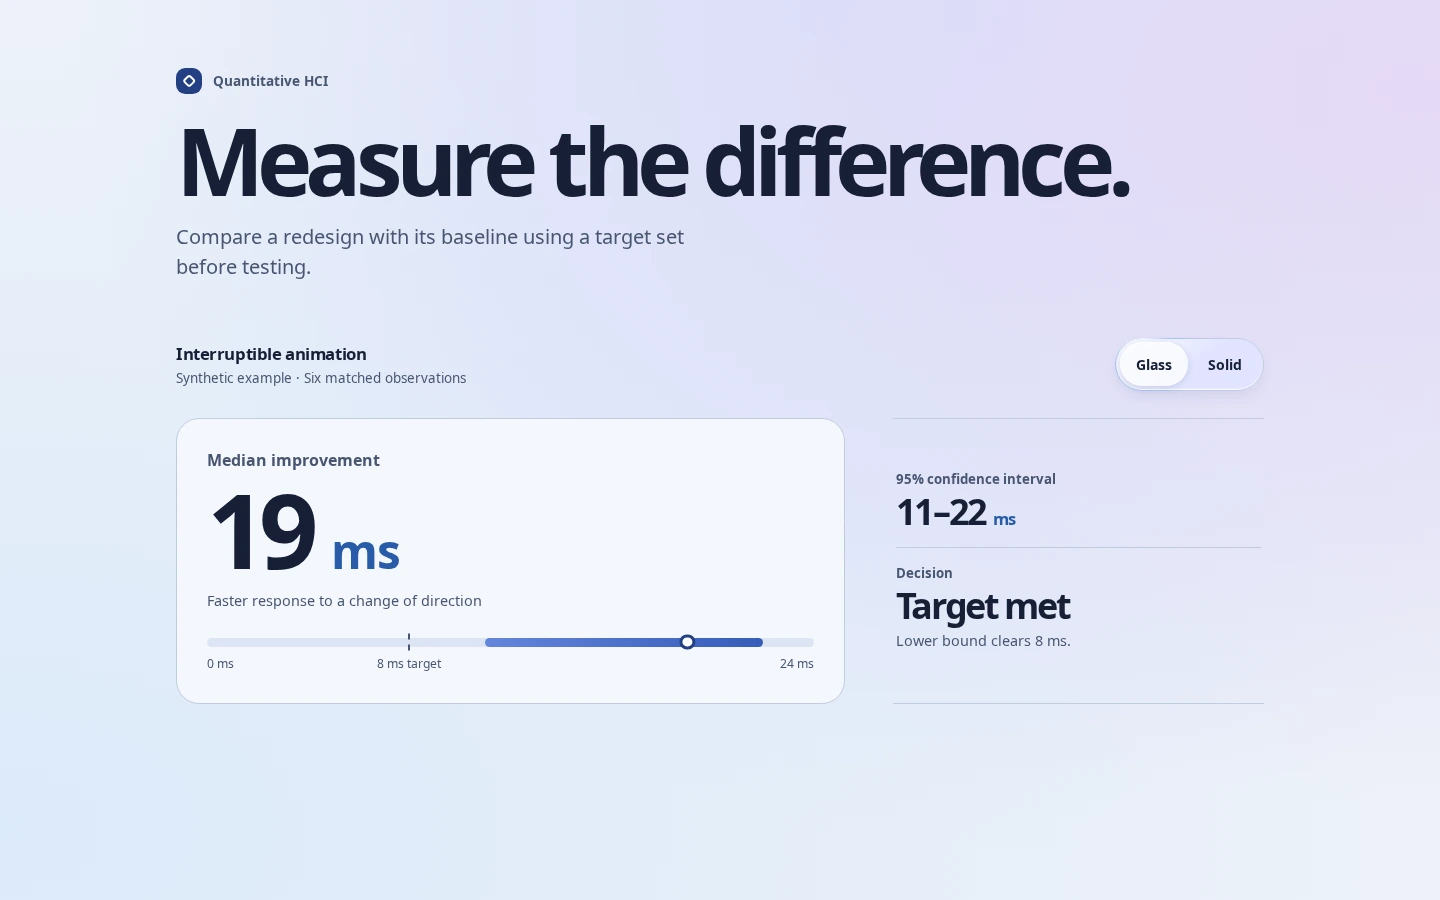
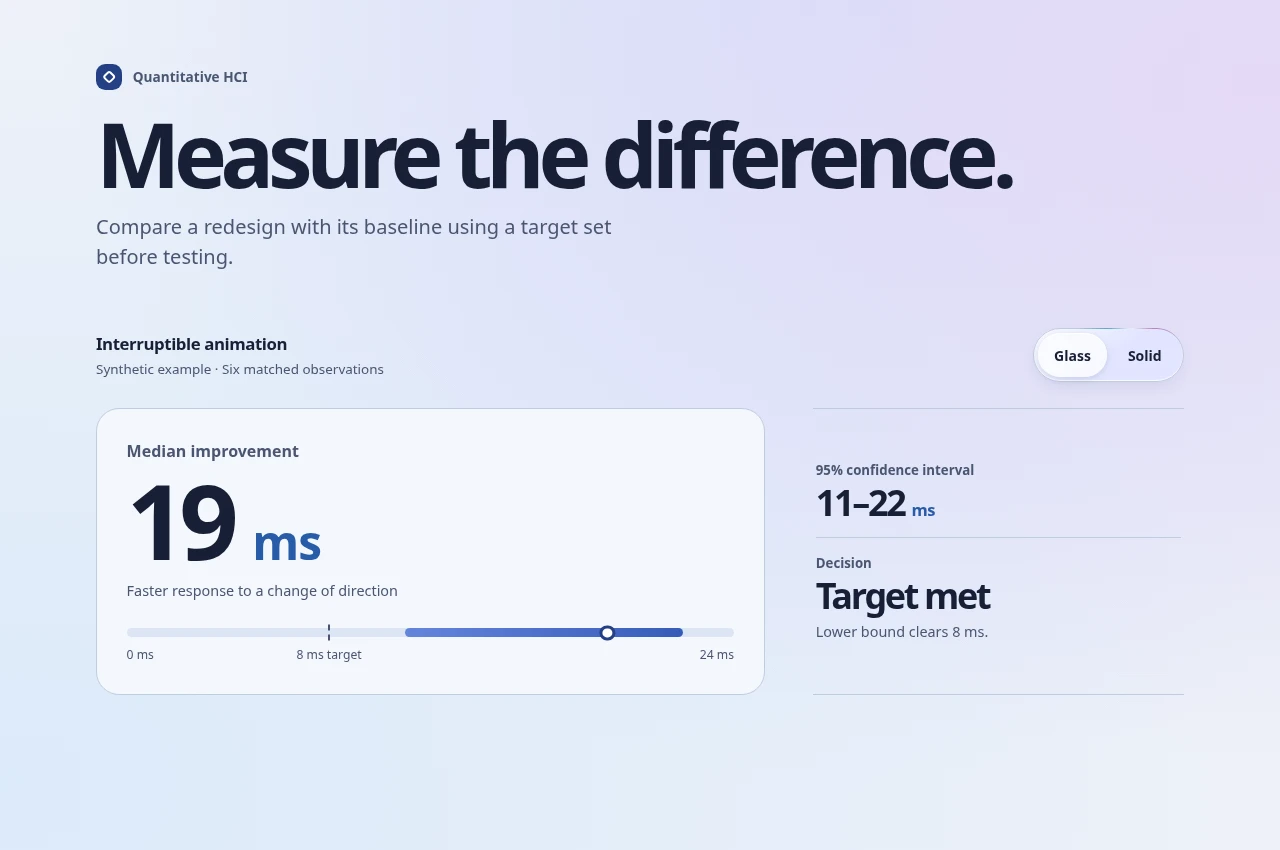
Add an audited chromatic rim to Liquid Glass

diff --git a/docs/hci/examples/spotlight-glass.html b/docs/hci/examples/spotlight-glass.html
@@ -21,6 +21,8 @@
       --chrome-solid: #e5ebf8;
       --chrome-tint: #e1e9ff9e;
       --rim: #ffffffd9;
+      --rim-cyan: #2e96b3c7;
+      --rim-rose: #b957a5bd;
       --selection: #f9fbffe8;
       --focus: #144fa7;
       --shadow: #21365e25;
@@ -168,7 +170,13 @@
         inset: -1px;
         padding: 1px;
         border-radius: inherit;
-        background: radial-gradient(5.5rem circle at var(--spot-x) var(--spot-y), #fff, #a6c3ff 36%, transparent 80%);
+        background:
+          radial-gradient(2rem circle at var(--spot-x) var(--spot-y),
+            #fff, #fff9 24%, transparent 80%),
+          radial-gradient(2.8rem circle at calc(var(--spot-x) - 1.15rem) var(--spot-y),
+            var(--rim-cyan) 8%, transparent 78%),
+          radial-gradient(2.8rem circle at calc(var(--spot-x) + 1.15rem) var(--spot-y),
+            var(--rim-rose) 8%, transparent 78%);
         mask: linear-gradient(#000 0 0) content-box, linear-gradient(#000 0 0);
         mask-composite: exclude;
         pointer-events: none;
@@ -276,6 +284,8 @@
 
     @media (prefers-color-scheme: dark) {
       :root {
+        --rim-cyan: #61e7dfcc;
+        --rim-rose: #f39decdd;
         --canvas: #101828;
         --ink: #eef3ff;
         --muted: #b6c5df;

diff --git a/docs/hci/models/audit-spotlight.py b/docs/hci/models/audit-spotlight.py
@@ -155,6 +155,38 @@ def move_over_toolbar(page, toolbar, dx=18, dy=10):
     page.evaluate(FRAMES)
 
 
+def capture_toolbar(toolbar, image_class):
+    with image_class.open(BytesIO(toolbar.screenshot(scale="css", animations="disabled"))) as image:
+        return image.convert("RGB")
+
+
+def measure_rim(page, toolbar, image_class):
+    page.evaluate(FRAMES)
+    with capture_toolbar(toolbar, image_class) as before:
+        move_over_toolbar(page, toolbar, dx=round(before.width * 0.65), dy=4)
+        with capture_toolbar(toolbar, image_class) as after:
+            # Skip the rounded caps and the rim when comparing the label area.
+            inset = 27
+            interior = (inset, 6, before.width - inset, before.height - 6)
+            with before.crop(interior) as idle, after.crop(interior) as hover:
+                interior_unchanged = idle.tobytes() == hover.tobytes()
+
+            cyan = rose = 0
+            for y in range(4):
+                for x in range(inset, before.width - inset):
+                    previous = before.getpixel((x, y))
+                    red, green, blue = after.getpixel((x, y))
+                    if max(abs(new - old) for new, old in zip((red, green, blue), previous)) < 12:
+                        continue
+                    cyan += min(green, blue) - red >= 16
+                    rose += min(red, blue) - green >= 12
+            return {
+                "changed_cyan_rim_pixels": cyan,
+                "changed_rose_rim_pixels": rose,
+                "interior_pixels_unchanged": interior_unchanged,
+            }
+
+
 def burst_pointer_events(toolbar):
     return toolbar.evaluate(
         """async toolbar => {
@@ -189,10 +221,13 @@ def audit_desktop(page, image_class):
     solid = page.get_by_role("radio", name="Solid")
     default_glass = glass.is_checked()
     base_geometry = layout_geometry(page)
-    contrast = {"glass_idle": sample_contrast(page, image_class)}
-
-    move_over_toolbar(page, toolbar)
+    rim = measure_rim(page, toolbar, image_class)
     pointer_active = pointer_position(toolbar) != ["", ""]
+
+    # Capture the visual comparison before the contrast probe changes the text DOM.
+    page.mouse.move(0, 0)
+    contrast = {"glass_idle": sample_contrast(page, image_class)}
+    move_over_toolbar(page, toolbar)
     contrast["glass_pointer"] = sample_contrast(page, image_class)
     burst = burst_pointer_events(toolbar)
 
@@ -236,6 +271,8 @@ def audit_desktop(page, image_class):
         "checks": {
             "glass_is_default": default_glass,
             "mouse_tracks": pointer_active,
+            "chromatic_rim_is_visible": min(rim["changed_cyan_rim_pixels"], rim["changed_rose_rim_pixels"]) >= 4,
+            "hover_preserves_interior_pixels": rim["interior_pixels_unchanged"],
             "coalesced_pointer_burst": 0 < burst["style_mutations"] <= 2 and burst["latest_pointer_applied"],
             "keyboard_switches_both_directions": keyboard_glass and keyboard_solid and keyboard_returns_to_glass,
             "keyboard_focus_outline_present": focus_ring["width_px"] >= 2 and focus_ring["style"] != "none",
@@ -243,6 +280,7 @@ def audit_desktop(page, image_class):
             "surface_switch_preserves_geometry": base_geometry == solid_geometry,
         },
         "pointer_burst": burst,
+        "rim": rim,
         "focus_outline": focus_ring,
     }
 

diff --git a/docs/hci/examples/README.md b/docs/hci/examples/README.md
@@ -9,7 +9,7 @@ Open [spotlight-glass.html](spotlight-glass.html) locally. The toolbar starts in
 | Background | Continuous colour across the page gives the glass something to pick up. |
 | Content | Give the chart one solid surface and let supporting figures sit on the page with simple dividers. |
 | Controls | A tinted translucent fill, backdrop blur, inset rim and quiet shadow give controls depth. Match the radii of nested elements to keep the edges aligned. |
-| Spotlight | A border-only highlight tracks a mouse. It stays static with touch or reduced motion and disappears in solid and reduced-transparency modes. |
+| Spotlight | A narrow white highlight with cyan and rose fringes tracks the mouse along the rim. It stays static with touch or reduced motion and disappears in solid and reduced-transparency modes. |
 | Fallback | Solid fill preserves legibility without blur support. Native controls, a visible focus ring and explicit labels preserve the same actions in forced colours. |
 
 ## Measure the effect
@@ -36,9 +36,18 @@ Use `--profile desktop_dark` to run one profile or `--executable /path/to/chromi
 | Desktop, light and dark | Minimum sampled text contrast was 5.28:1 in light and 7.12:1 in dark across the normal surface states. Keyboard switching preserved layout and showed a 2 CSS px focus ring. |
 | Dark toolbar over a bright test backdrop | The minimum sampled toolbar-label contrast was 7.23:1. |
 | Touch at 320 CSS px | Both targets were 68 × 44 CSS px. Minimum sampled text contrast was 6.74:1. Both choices worked without horizontal overflow. |
+| Chromatic rim | Both themes showed cyan and rose at the moving edge. Pixels in the sampled label area matched at rest and under the pointer. |
 | 24 pointer events in one frame | Two style updates applied the latest coordinates. |
 | Reduced motion, reduced transparency and forced colours | The spotlight stopped tracking. Blur and glow were disabled for reduced transparency and forced colours. Metric text remained visible. |
 
+The rim audit compares screenshots at rest and at a fixed pointer position. It
+checks for both colours in the top four CSS pixel rows and compares interior
+pixels after excluding the rounded ends and border.
+
 The audit samples rendered pixels beneath the text bounds with glyph ink hidden. It checks this fixture in Chromium, including emulated preferences. Measure the actual device, backdrop and task when adopting the pattern in a product.
+
+For hosted screenshot review, [Chromatic for Playwright](https://www.chromatic.com/docs/playwright/)
+can compare snapshots in pull requests. Use fixed pointer coordinates for hover
+and capture idle Glass, keyboard-focused Solid, and the 320 CSS px layout.
 
 [Apple’s materials guidance](https://developer.apple.com/design/human-interface-guidelines/materials) · [Julien Thibeaut’s border-only Spotlight](https://21st.dev/?q=spotlight+card&preview=%2F%40ibelick%2Fcomponents%2Fspotlight%2Fborder-only) · [WCAG 2.2](https://www.w3.org/TR/WCAG22/)

diff --git a/README.md b/README.md
@@ -19,9 +19,9 @@ A structured HCI and UX review skill pack for prototypes, flows, interface syste
 
 ## Default UI · Liquid Glass
 
-Apple-inspired Liquid Glass is the default for new high-fidelity Quantitative HCI examples and prototypes without an established design system. Use frosted glass and a subtle border spotlight on controls. Use solid, quiet surfaces for charts, tables and reading.
+Apple-inspired Liquid Glass is the default for new high-fidelity Quantitative HCI examples and prototypes without an established design system. Use frosted glass and a subtle cyan-to-rose border spotlight on controls. Use solid, quiet surfaces for charts, tables and reading.
 
-![Quantitative HCI example with a Liquid Glass toolbar and an opaque scorecard showing a 19 ms median improvement](assets/spotlight-glass-preview.webp)
+![Quantitative HCI example with a chromatic Liquid Glass toolbar rim and a scorecard showing a 19 ms median improvement](assets/spotlight-glass-preview.webp)
 
 Open [the example HTML](docs/hci/examples/spotlight-glass.html) locally to compare Glass and Solid on the same toolbar. The [design guidance](docs/hci/examples/README.md) covers surface selection, what to measure and how to run the browser audit. [Apple materials](https://developer.apple.com/design/human-interface-guidelines/materials) · [21st.dev border-only Spotlight](https://21st.dev/?q=spotlight+card&preview=%2F%40ibelick%2Fcomponents%2Fspotlight%2Fborder-only)
 
